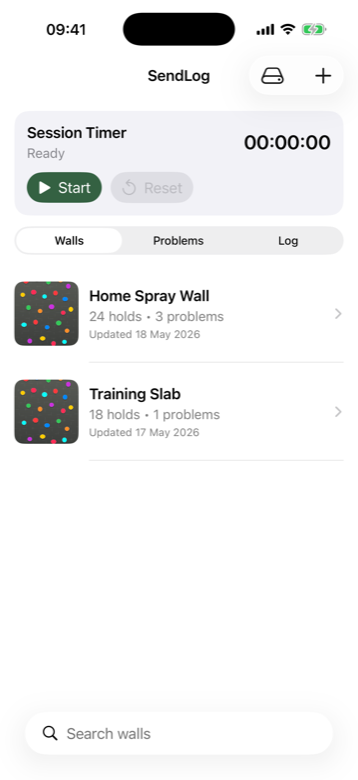
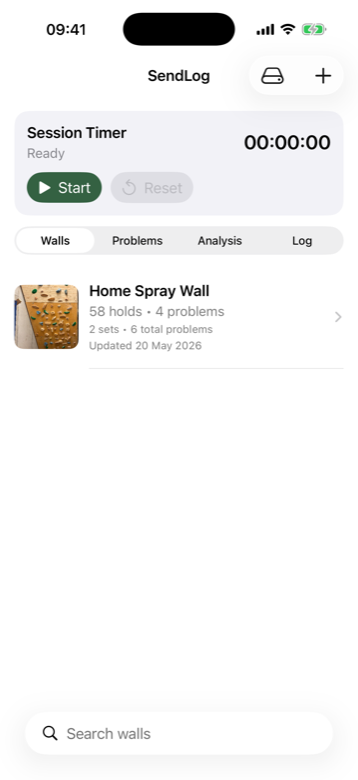
Rewrite public README

diff --git a/README.md b/README.md
@@ -1,45 +1,99 @@
 # SendLog
 
-SendLog is an offline-first iOS companion for home boards, spray walls, and training resets. Manage every wall and reset in one place, detect holds locally on-device, build boulders directly on the photo, and keep your training history useful across every board change.
+SendLog is an offline-first iOS app for home boards, spray walls, and training resets. Photograph your wall, detect holds locally, build climbs directly on the image, log your sessions, and keep old problems useful when the set changes.
 
-It is designed for the messy, useful reality of board climbing: full resets, partial resets, old projects that deserve a second life, tiny tweaks to hold boxes, project notes, attempts, ticks, search, grade filters, and backups that keep your wall data portable.
+The app is built for climbers who treat their board as a living training tool: holds get added, partial resets happen, projects come back, and the most useful data is the stuff that survives all of that.
 
 ## Screenshots
 
 <p>
-  <img src="docs/screenshots/sendlog-library.png" alt="SendLog wall library" width="260">
-  <img src="docs/screenshots/sendlog-wall-detail.png" alt="SendLog wall detail with detected holds and saved problems" width="260">
-  <img src="docs/screenshots/sendlog-problems.png" alt="SendLog global problems library" width="260">
+  <img src="docs/screenshots/sendlog-library.png" alt="Wall and reset library" width="220">
+  <img src="docs/screenshots/sendlog-wall-detail.png" alt="Wall photo with manually marked wall area and detected holds" width="220">
+  <img src="docs/screenshots/sendlog-analysis.png" alt="Hold usage analysis heat map" width="220">
+  <img src="docs/screenshots/sendlog-problems.png" alt="Problem library with attempts and ticks" width="220">
 </p>
+
+## Why SendLog
+
+Most board apps are good at storing a climb once. SendLog is designed around what happens after that: you change the board, add a few holds, replace part of the set, and still want your old climbs, logs, and training history to make sense.
+
+### Wall inheritance
+
+Create a new set from an existing wall and bring old climbs forward. SendLog automatically matches holds from the old set to the new layout using position, wall geometry, and hold appearance, then lets you review the imported problems before saving them.
+
+This is the core idea: your climbs should not disappear just because the board evolved.
+
+### Fully local hold detection
+
+Hold detection runs on-device with the bundled Core ML model. No cloud upload, no server dependency, and no internet requirement. After detection, every hold box can still be tweaked manually: add missed holds, move boxes, resize them, or delete noisy detections.
+
+### Hold usage analysis
+
+Use the analysis view to see which holds appear most often across a set. The heat map makes it easier to spot overused holds, neglected board zones, and opportunities for more balanced setting.
+
+### Climb logging
+
+Log attempts and ticks directly from saved problems. SendLog keeps climb-level history and session context so your board becomes more than a photo with colored boxes.
+
+### Portable backups
+
+Export and import complete JSON backups, including walls, resets, holds, problems, logs, and wall images.
 
 ## Features
 
-- Manage walls and resets as first-class training surfaces, with support for multiple sets on the same wall.
-- Handle partial resets without losing context: keep the wall, update the set, and continue tracking what changed.
-- Detect holds fully offline with the bundled FastSAM/Core ML model, so wall setup works without network calls or cloud uploads.
-- Manually add, remove, move, and resize hold boxes when a photo, shadow, or unusual hold shape needs a human touch.
-- Import existing boulders into a new set by matching old holds to the new layout, then review and approve the translated problem.
-- Tap holds to compose boulder problems with grades, notes, starts, finishes, and selected footholds.
-- Use hold analysis to see which holds are used most often, spot neglected zones, and build more balanced problems.
-- Track attempts, ticks, and session time without leaving the app.
-- Browse all walls, problems, and log entries with search, sorting, and grade filters.
-- Export and import a full JSON backup of walls, holds, problems, session logs, and wall images.
+- Manage multiple walls and multiple resets per wall.
+- Mark the climbable wall area to keep hold detection and matching focused.
+- Detect holds fully offline with Core ML.
+- Manually add, remove, move, and resize hold boxes.
+- Create problems by tapping holds on the wall image.
+- Save grades, notes, primary holds, and secondary/foot holds.
+- Import old climbs into new sets with automatic hold matching.
+- Analyze hold usage across a set.
+- Log attempts, ticks, and sessions.
+- Search and filter the wall, problem, analysis, and log views.
+- Export/import full backups for portability.
 
-## Project setup (VS Code + Xcode)
+## Typical Workflow
+
+1. Import a wall photo.
+2. Draw or adjust the wall area.
+3. Run local hold detection.
+4. Tweak any detected holds that need cleanup.
+5. Build climbs by selecting holds on the wall.
+6. Log attempts and sends over time.
+7. When the wall changes, create a new reset and import old climbs into the new set.
+8. Use hold analysis to understand what your setting has been emphasizing.
+
+## Project Setup
+
 1. Install full Xcode from the App Store.
 2. Install XcodeGen:
+
    ```bash
    brew install xcodegen
    ```
-3. Generate the project:
+
+3. Generate the Xcode project:
+
    ```bash
    xcodegen generate
    ```
-4. Open `SendLog.xcodeproj` in Xcode:
+
+4. Open the project:
+
    ```bash
    open SendLog.xcodeproj
    ```
-5. Pick an iOS Simulator and run.
 
-## Why Xcode is still required
-You can edit Swift files in VS Code, but iOS Simulator builds/signing rely on the iOS SDK tooling bundled with full Xcode.
+5. Choose an iOS Simulator or device and run.
+
+## Development Notes
+
+- Minimum deployment target: iOS 17.
+- UI: SwiftUI.
+- Hold detection: bundled Core ML model, fully local.
+- Persistence: local app storage with JSON backup export/import.
+
+## Privacy
+
+SendLog is designed to work offline. Wall photos and climb data stay on the device unless you explicitly export a backup.
